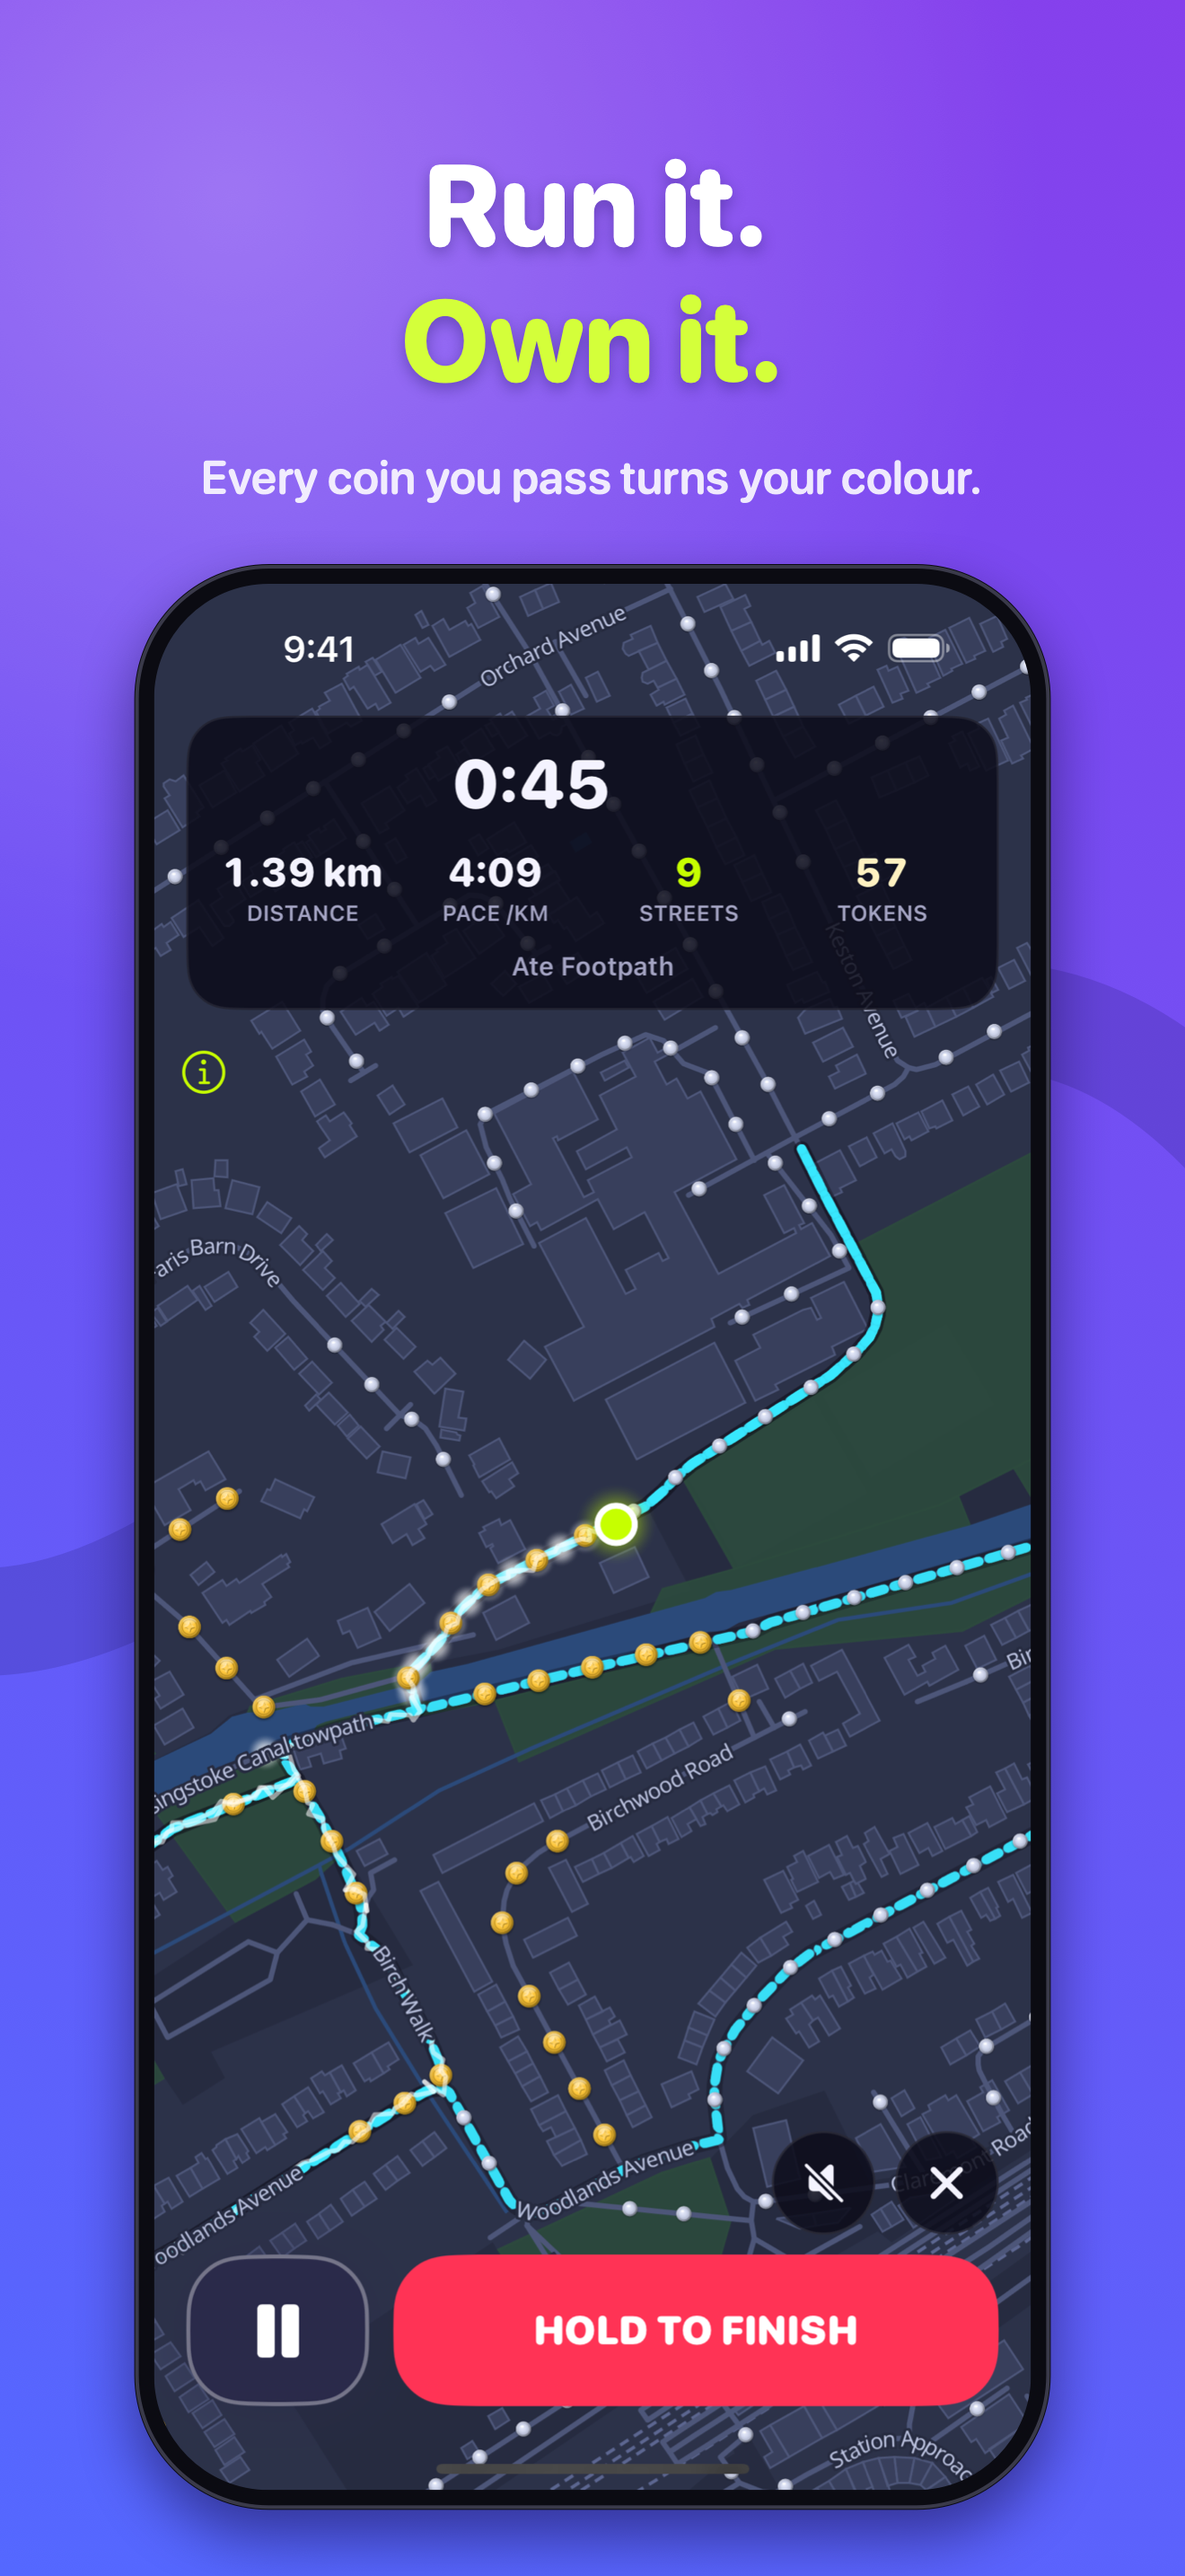
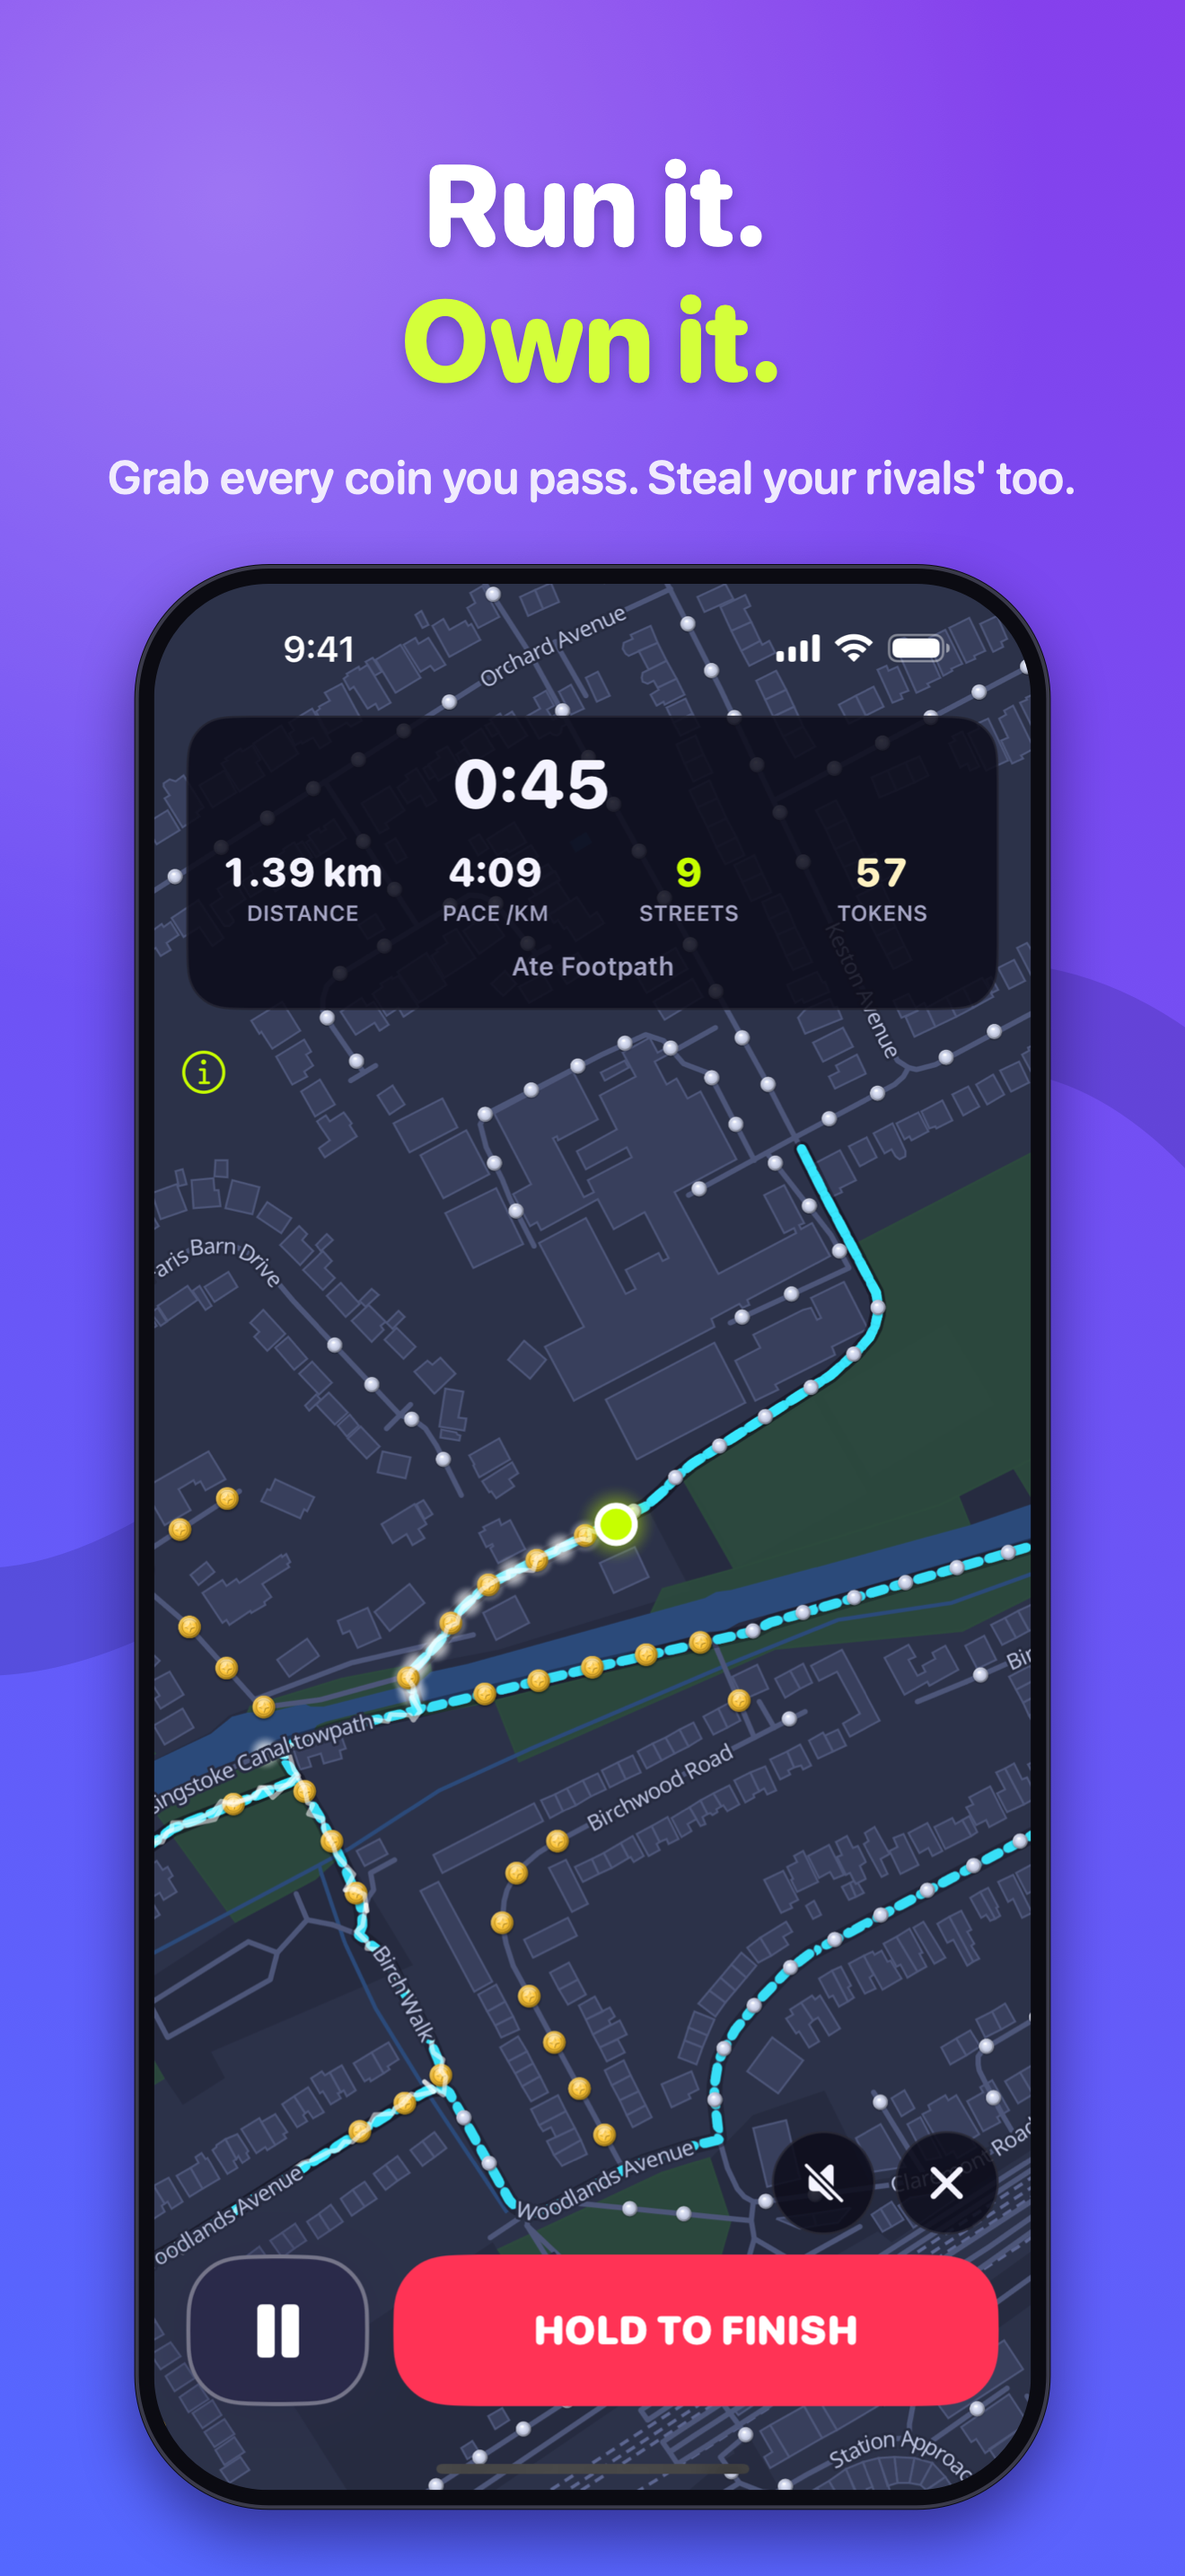
Screenshot captions: 'Every street', mention stealing rivals' coins
Claude-Session: https://claude.ai/code/session_01FMtq8DZr1tgLvzrY33xyjw

diff --git a/tools/make-screenshots.swift b/tools/make-screenshots.swift
@@ -10,8 +10,8 @@ let outDir = args.count > 2 ? args[2] : "docs/screenshots"
 
 // (raw file, output name, headline, accent line, subline)
 let shots: [(String, String, String, String, String)] = [
-    ("01-map",         "1-make-running-fun", "Make running",  "fun again",       "Every street near you is covered in coins."),
-    ("02-run",         "2-run-it-own-it",    "Run it.",       "Own it.",         "Every coin you pass turns your colour."),
+    ("01-map",         "1-make-running-fun", "Make running",  "fun again",       "Every street is covered in coins."),
+    ("02-run",         "2-run-it-own-it",    "Run it.",       "Own it.",         "Grab every coin you pass. Steal your rivals' too."),
     ("05-leaderboard", "3-compete",          "Compete with",  "the world",       "Nearby, worldwide, friends and clubs."),
     ("03-route",       "4-take-the-block",   "Plan a loop,",  "take the block",  "Routes that grab the most territory."),
     ("04-summary",     "5-every-run-counts", "Every run",     "counts",          "Coins, new streets and a replay of your run."),
